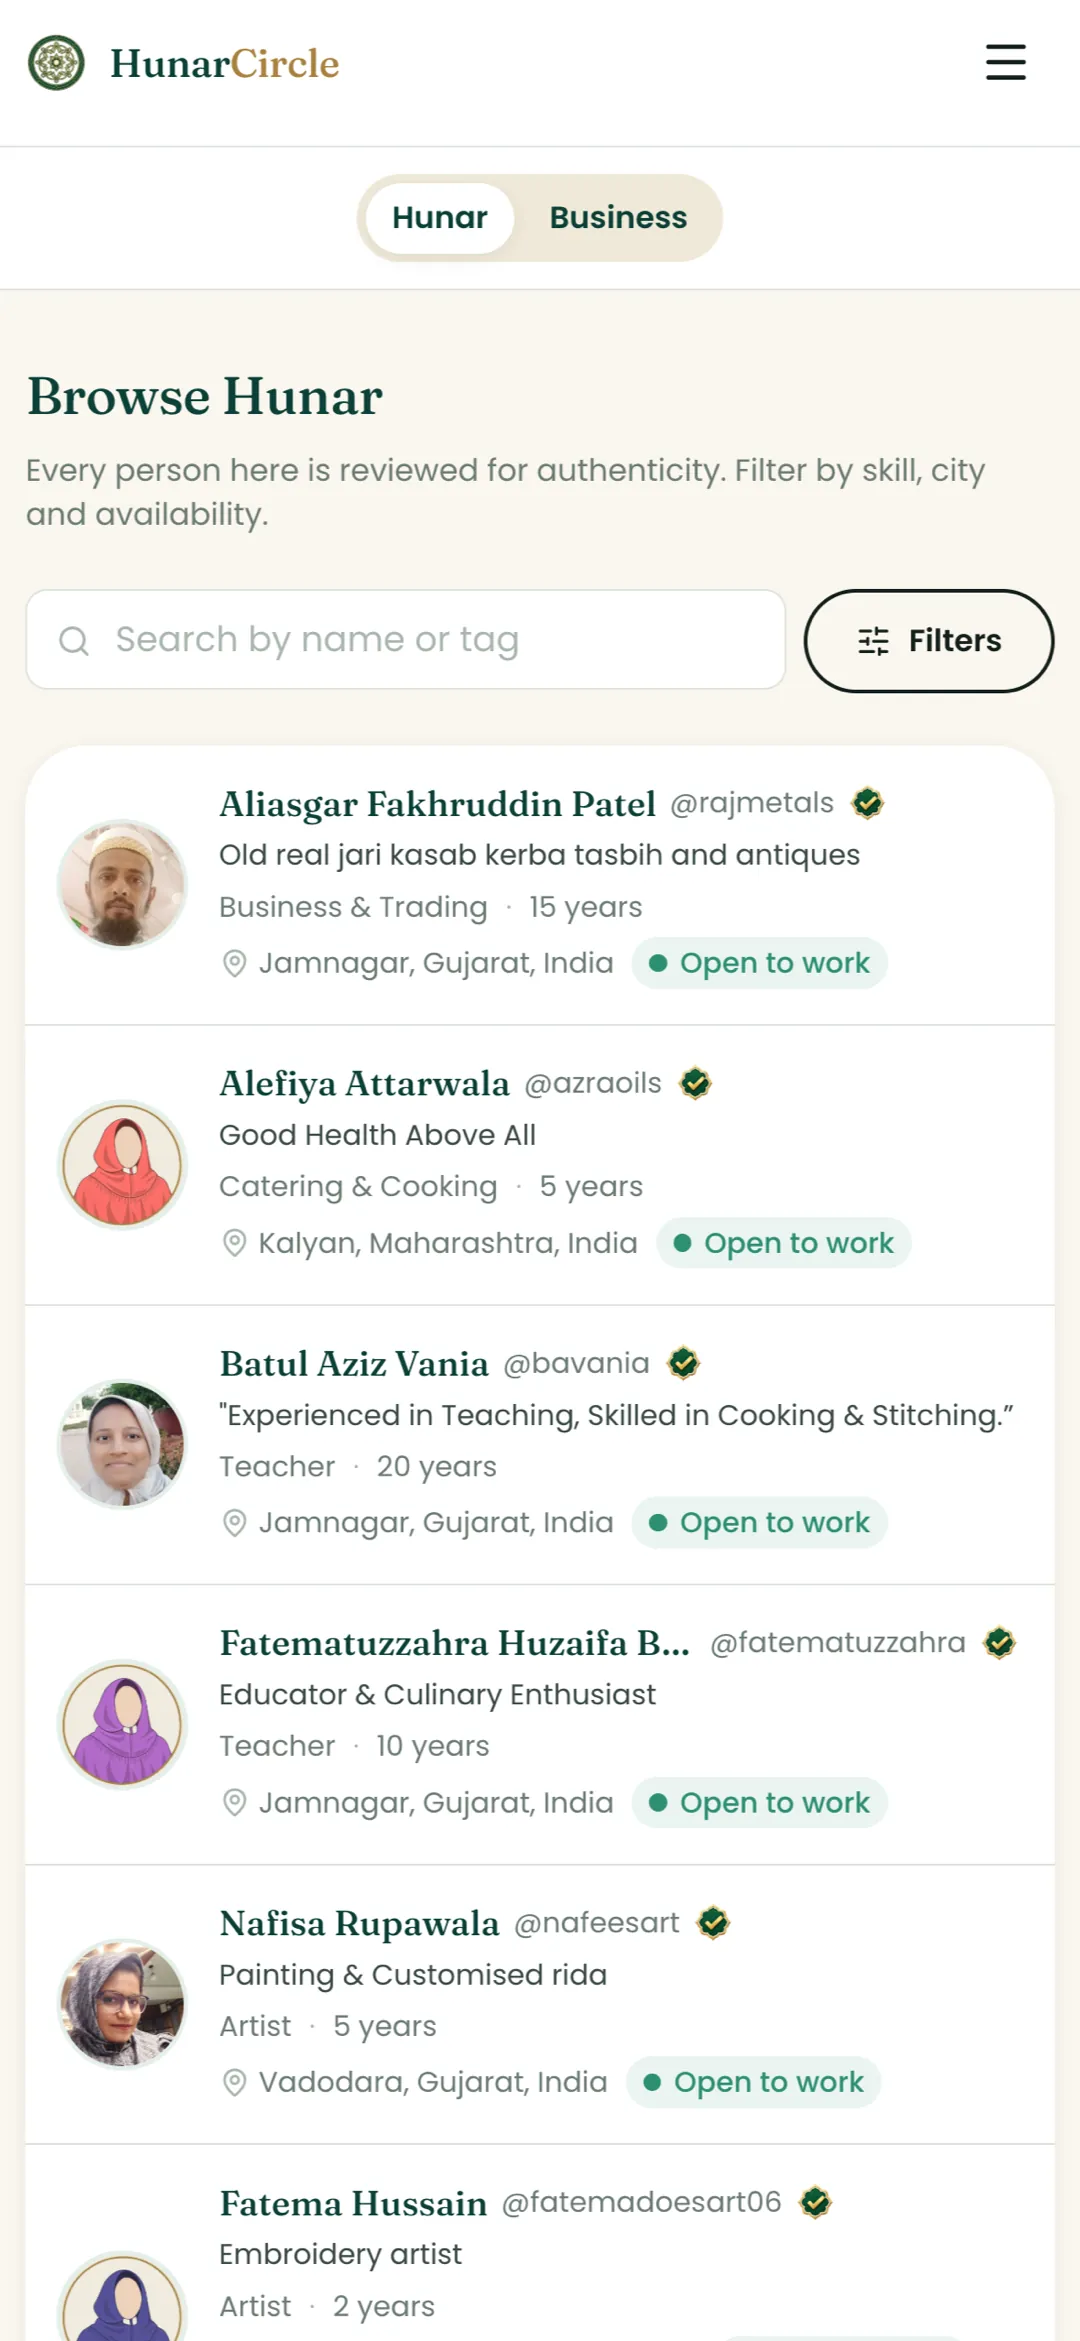
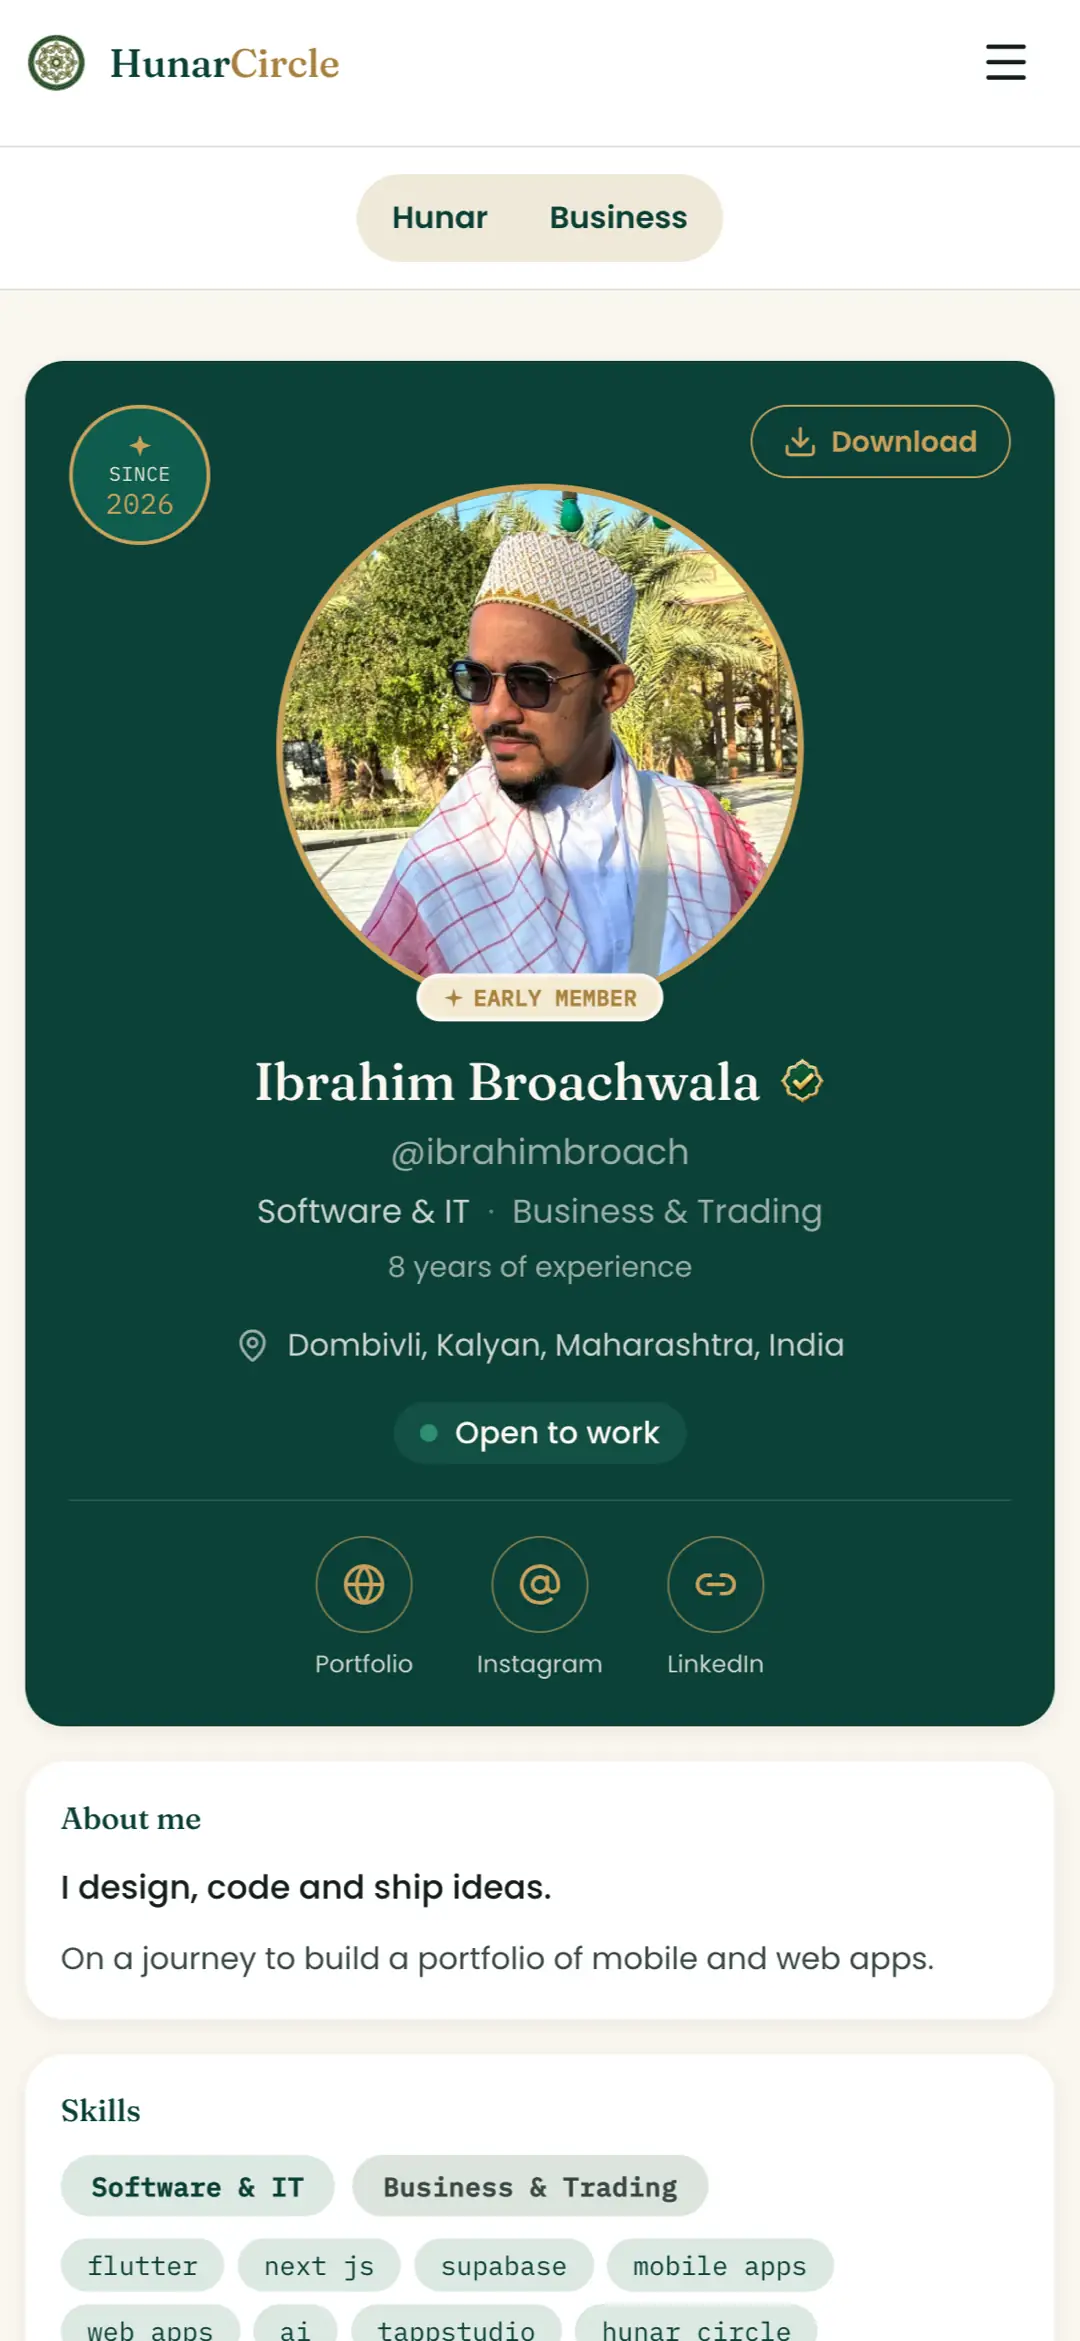
fix: Update alt and title attributes for Hunar Circle screenshots for better accessibility

diff --git a/index.html b/index.html
@@ -389,8 +389,8 @@
                                 <img src="public/apps/hunarcircle/2-540.webp"
                                     srcset="public/apps/hunarcircle/2-540.webp 540w, public/apps/hunarcircle/2-1080.webp 1080w"
                                     sizes="215px" width="1080" height="2341" loading="lazy" decoding="async"
-                                    alt="Hunar Circle Screenshot 2 - Browse Skilled People by Craft and City"
-                                    title="Hunar Circle Screenshot: Browse Hunar" />
+                                    alt="Hunar Circle Screenshot 2 - Verified Hunar Profile with Skills and Contact Links"
+                                    title="Hunar Circle Screenshot: Hunar Profile" />
                                 <img src="public/apps/hunarcircle/3-540.webp"
                                     srcset="public/apps/hunarcircle/3-540.webp 540w, public/apps/hunarcircle/3-1080.webp 1080w"
                                     sizes="215px" width="1080" height="2341" loading="lazy" decoding="async"
